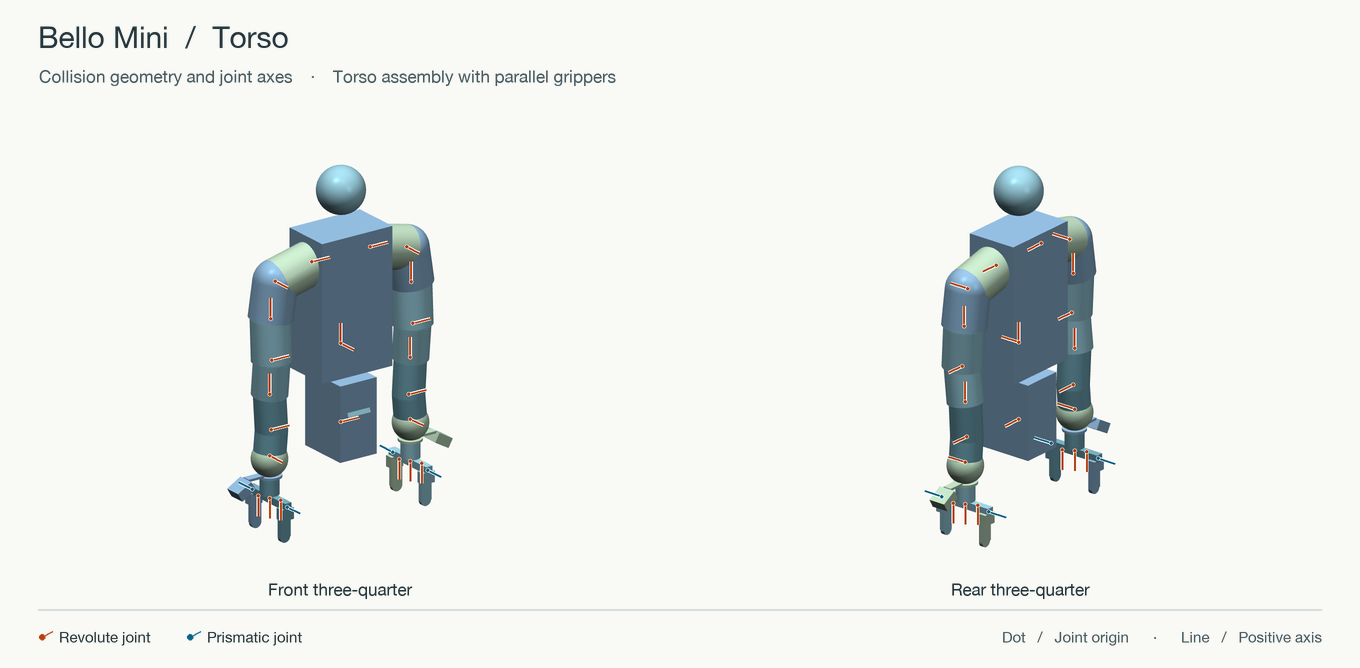
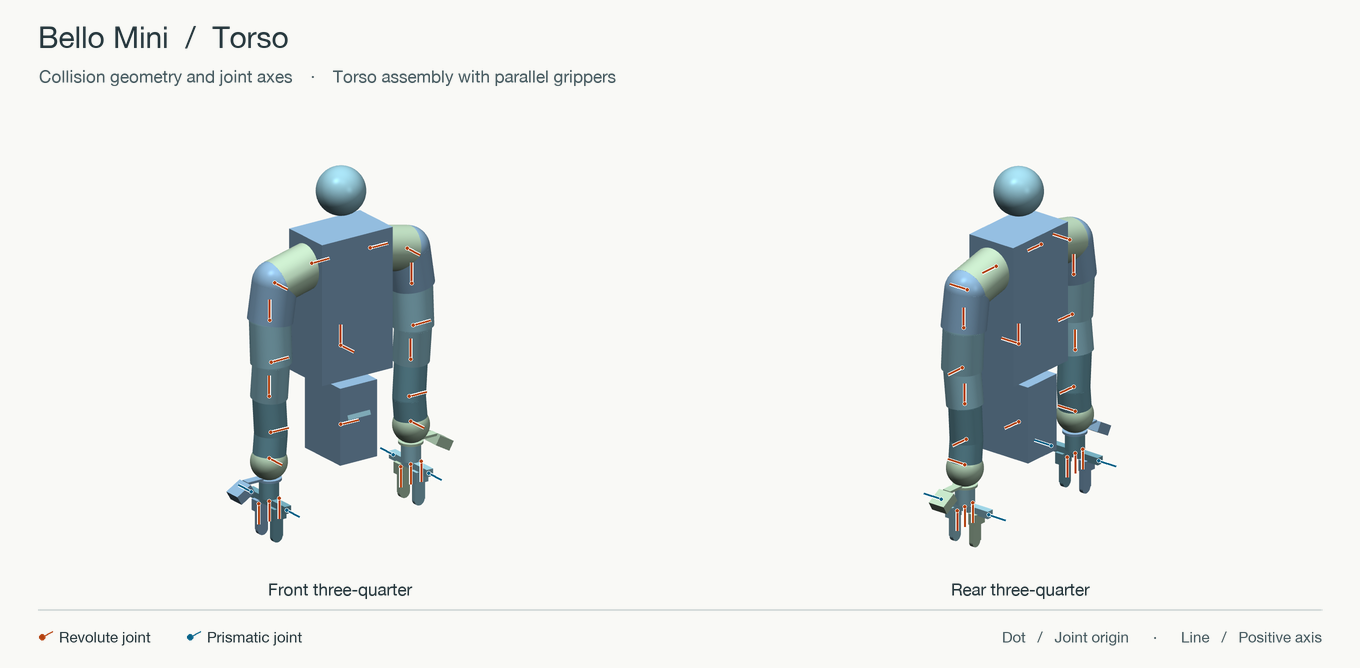
docs(urdf): close the Milly slider-crank linkages in previews

diff --git a/descriptions/README.md b/descriptions/README.md
@@ -12,6 +12,6 @@ Each model page pairs exterior views with the URDF collision shapes and movable 
 
 In the collision views, each dot marks a joint origin and its line points along the positive axis. Orange marks rotation and blue marks translation.
 
-The Milly previews show shoulder and elbow pitch at 1.15 rad with the other joints at zero. The workcell previews omit the ground plate to show the arm and gimbal mounts.
+The Milly previews show shoulder and elbow pitch at 1.15 rad. For the parallel grippers on Milly and Mini Torso, the drive is at −1.10 rad. The URDF’s `bello:slider_crank` linkage sets the rod angles and finger positions. The workcell previews omit the ground plate to show the arm and gimbal mounts.
 
 [Hardware and simulator deployment configuration](../docs/configuration.md)
